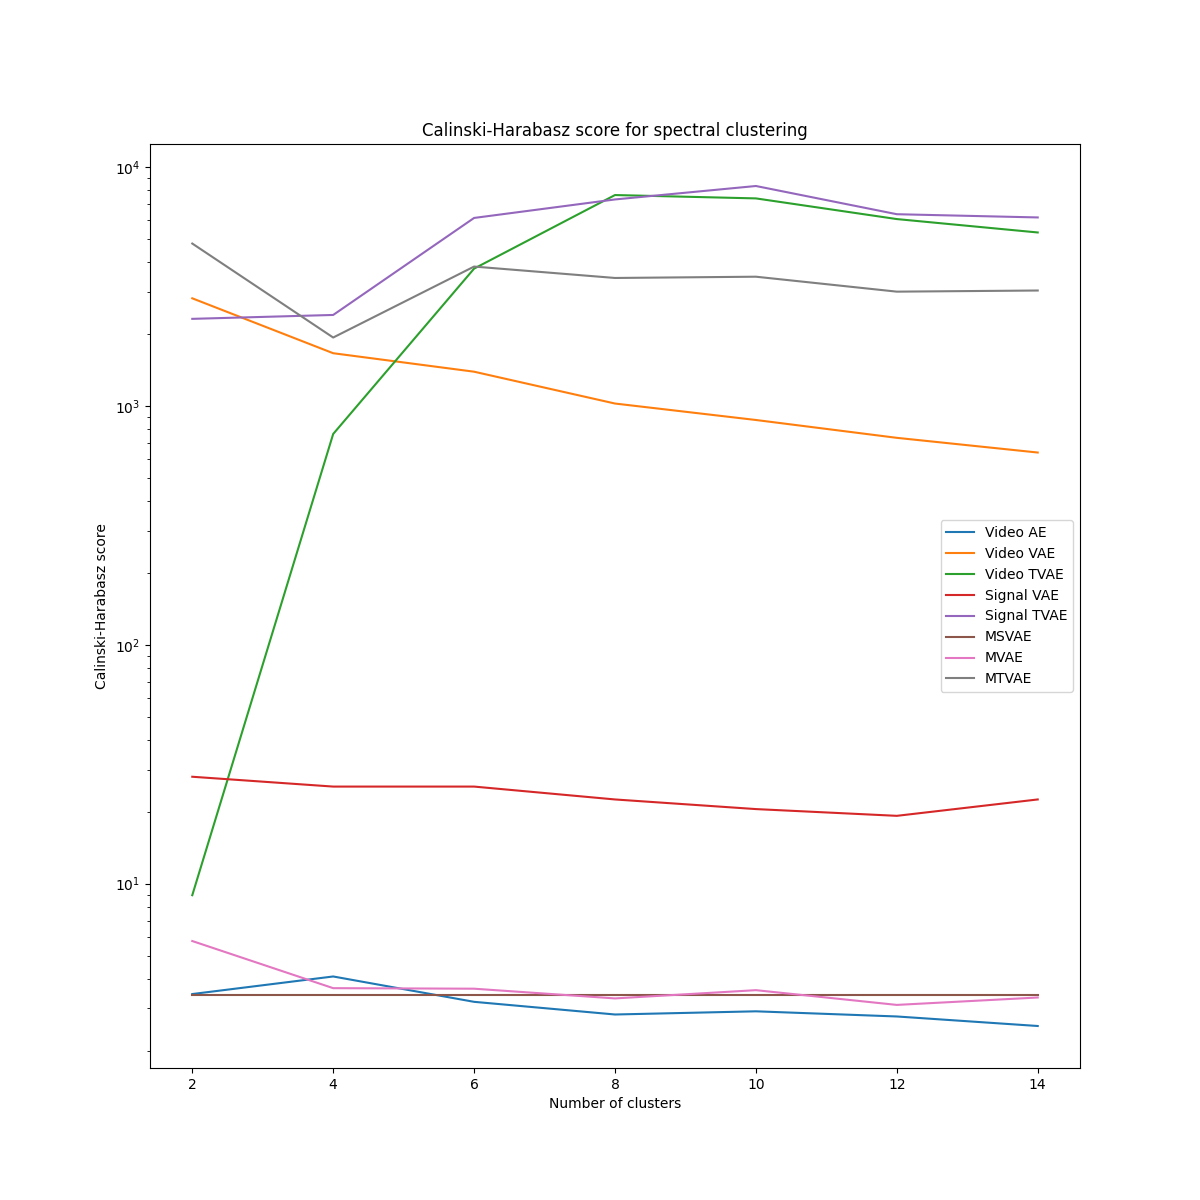
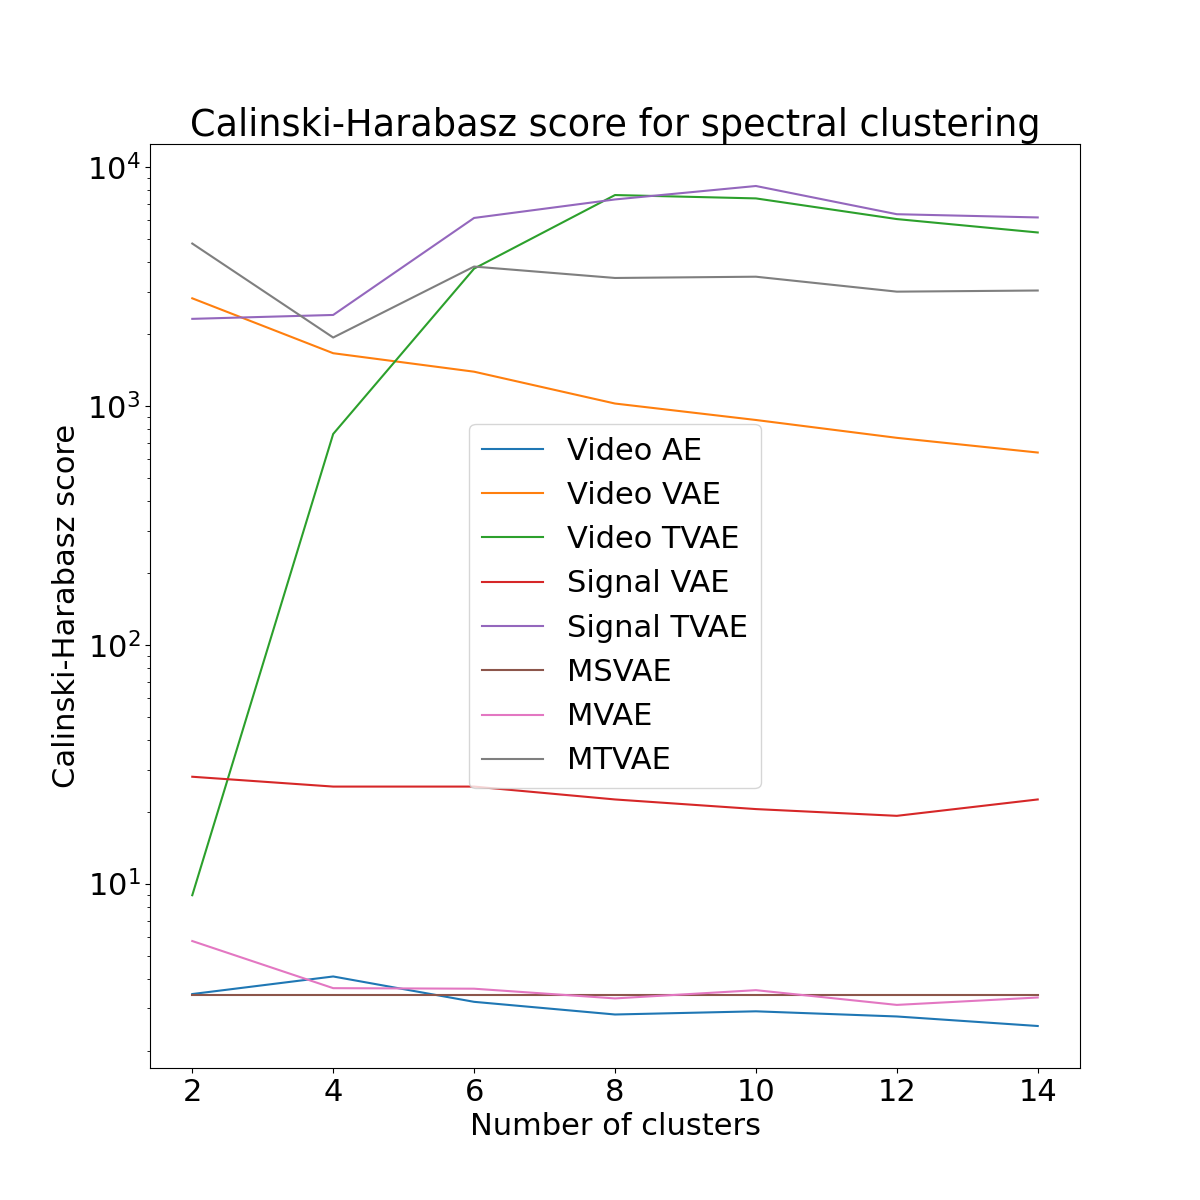
bigger font cluster plots

diff --git a/feature_extraction/plot_cluster_results.py b/feature_extraction/plot_cluster_results.py
@@ -2,6 +2,7 @@ import numpy as np
 import matplotlib.pyplot as plt 
 
 def plot_plots():
+    plt.rcParams.update({'font.size': 22})
     # Plot kmeans
     vae = np.array([0.31957, 0.11979, 0.09777, 0.05498, 0.05394, 0.04703, 0.05013])
     vvae = np.array([0.47327, 0.25186, 0.20626, 0.16971, 0.15812, 0.13764, 0.13503])
